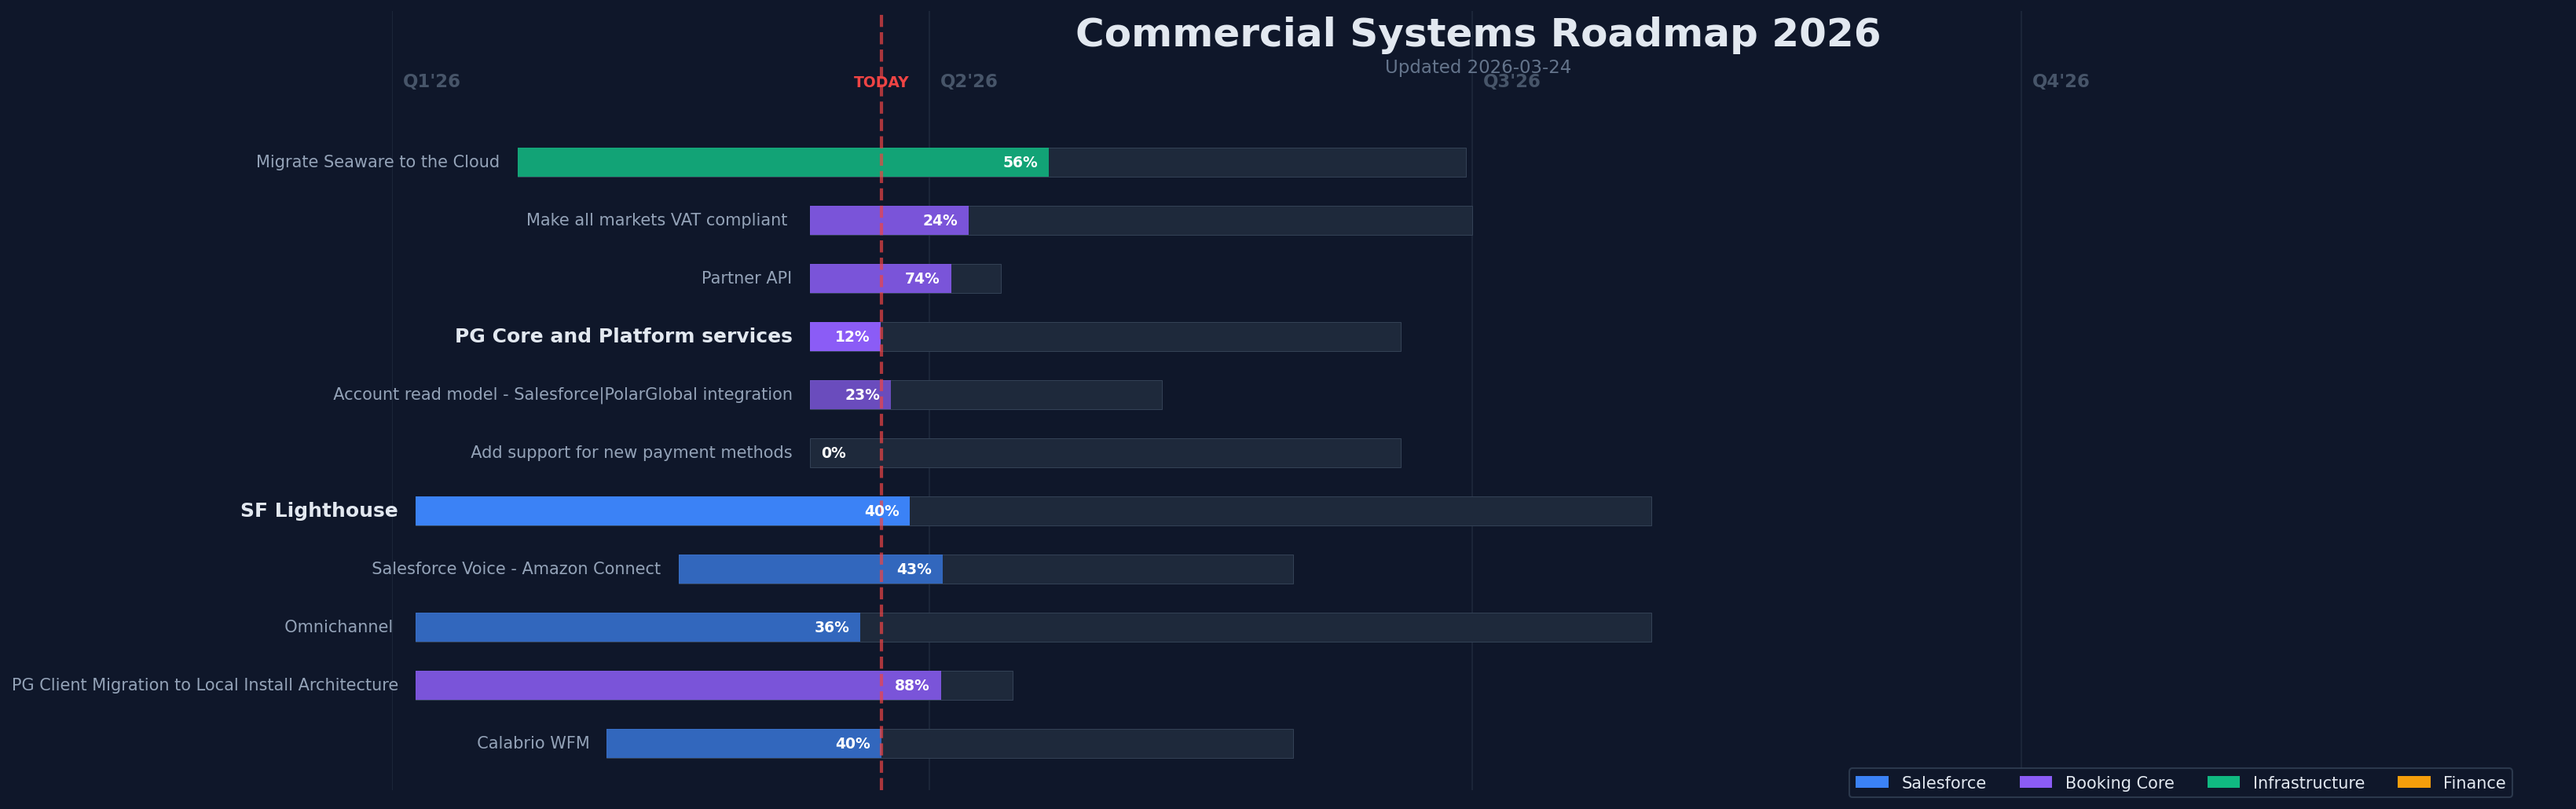
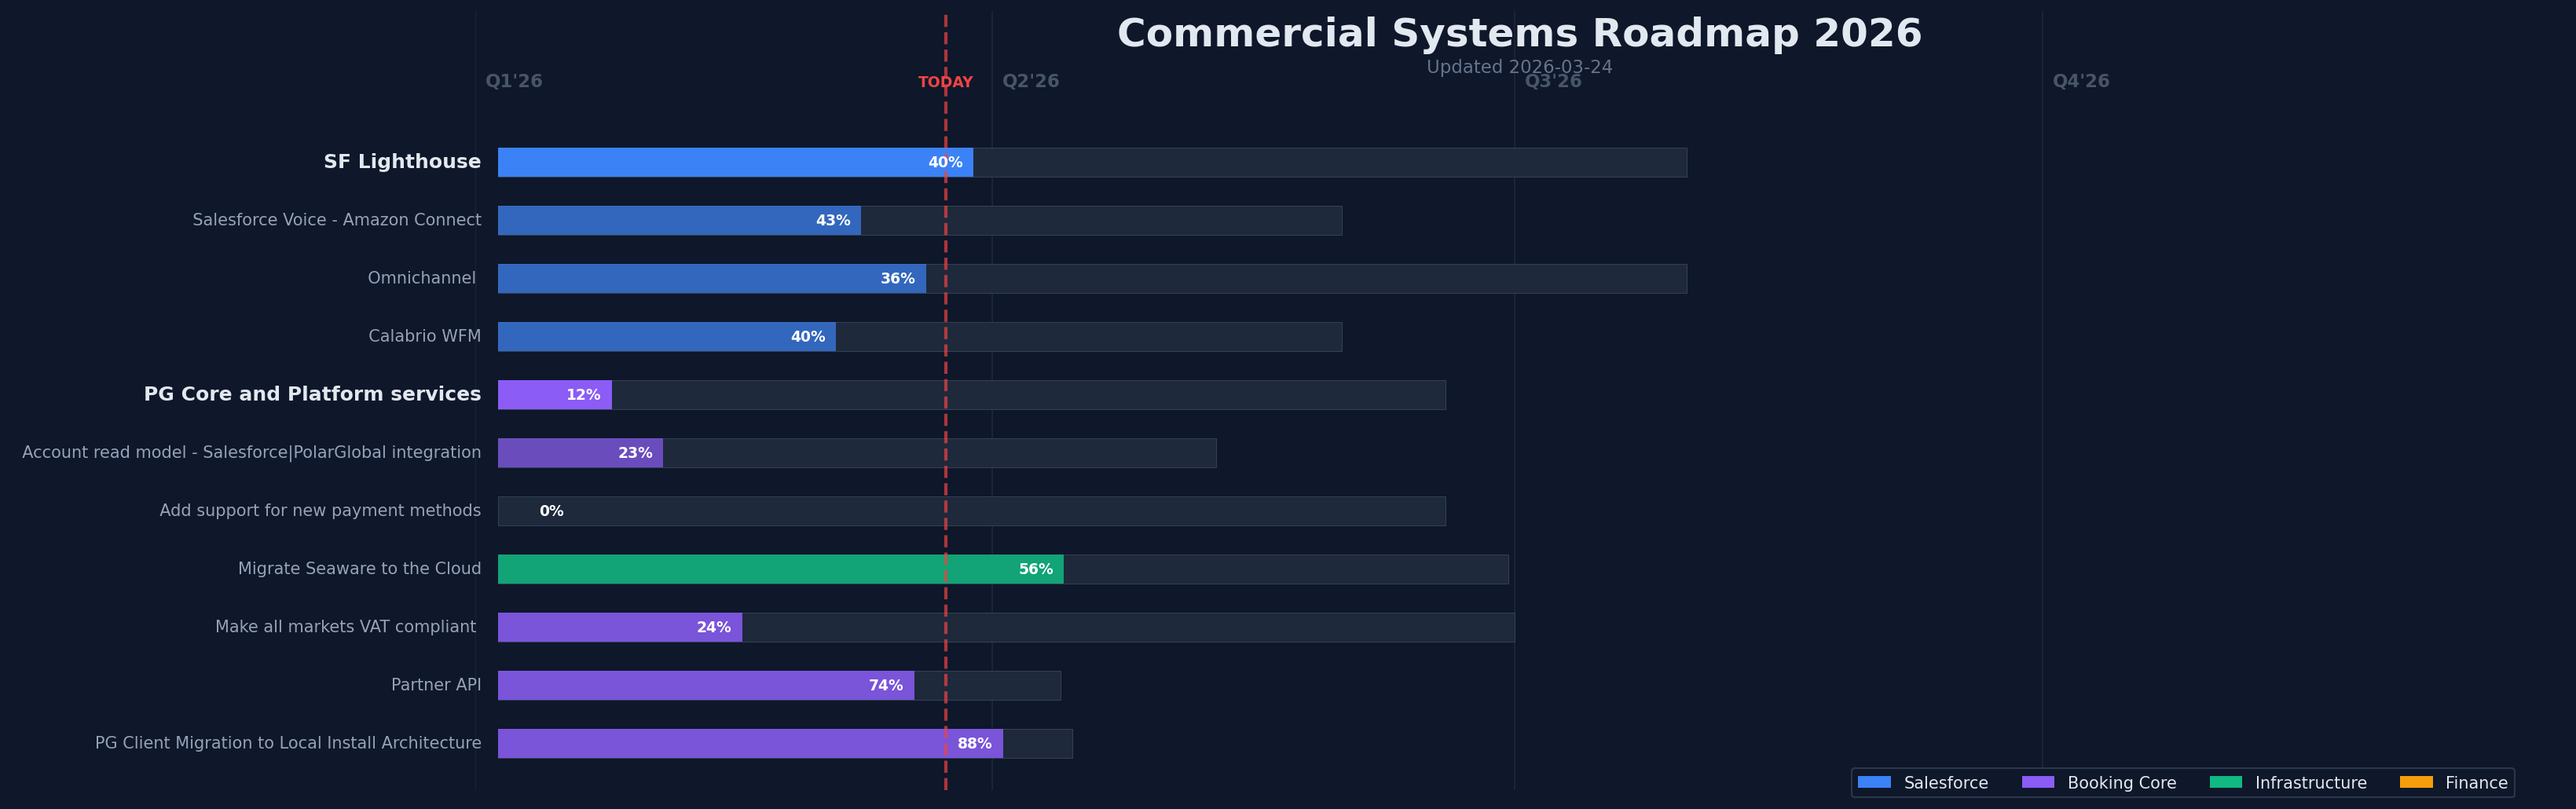
Auto-sync 2026-03-24

diff --git a/index.html b/index.html
@@ -53,19 +53,23 @@
 </div>
 <script>
 const DATA = [
-  { name: "Migrate Seaware to the Cloud", start: "2026-01-22", end: "2026-06-30", pct: 56, cat: "infra", jira: "https://hurtigruten.atlassian.net/browse/INFRA-2468", status: "20/39 done, 4 in progress, 15 to do. Weighted: 56%" },
-  { name: "sep" },
-  { name: "Make all markets VAT compliant ", start: "2026-03-12", end: "2026-07-01", pct: 24, cat: "core", jira: "https://hurtigruten.atlassian.net/browse/PC-3888", status: "2/15 done, 2 in progress, 10 to do, 1 blocked. Weighted: 24%" },
-  { name: "Partner API", start: "2026-03-12", end: "2026-04-13", pct: 74, cat: "core", jira: "https://hurtigruten.atlassian.net/browse/AV-2324", status: "4/8 done, 3 in progress, 1 to do. Weighted: 74%" },
-  { name: "PG Core and Platform services", start: "2026-03-12", end: "2026-06-19", pct: 12, cat: "core", parent: true, jira: "https://hurtigruten.atlassian.net/jira/software/projects/SQSF/boards/407", status: "2 workstreams, avg 12%" },
-  { name: "Account read model - Salesforce|PolarGlobal integration", start: "2026-03-12", end: "2026-05-10", pct: 23, cat: "core", child: true, jira: "https://hurtigruten.atlassian.net/browse/AV-2325", status: "0/4 done, 1 in progress, 3 to do. Weighted: 23%" },
-  { name: "Add support for new payment methods", start: "2026-03-12", end: "2026-06-19", pct: 0, cat: "core", child: true, jira: "https://hurtigruten.atlassian.net/browse/AV-2328", status: "0/2 done, 0 in progress, 2 to do. Weighted: 0%" },
   { name: "SF Lighthouse", start: "2026-01-05", end: "2026-07-31", pct: 40, cat: "sf", parent: true, jira: "https://hurtigruten.atlassian.net/jira/software/projects/SQSF/boards/407", status: "3 workstreams, avg 40%" },
-  { name: "Salesforce Voice - Amazon Connect", start: "2026-02-18", end: "2026-06-01", pct: 43, cat: "sf", child: true, jira: "https://hurtigruten.atlassian.net/browse/SQSF-6000", status: "10/32 done, 7 in progress, 15 to do. Weighted: 43%" },
+  { name: "Salesforce Voice - Amazon Connect", start: "2026-01-05", end: "2026-06-01", pct: 43, cat: "sf", child: true, jira: "https://hurtigruten.atlassian.net/browse/SQSF-6000", status: "10/32 done, 7 in progress, 15 to do. Weighted: 43%" },
   { name: "Omnichannel ", start: "2026-01-05", end: "2026-07-31", pct: 36, cat: "sf", child: true, jira: "https://hurtigruten.atlassian.net/browse/SQSF-5305", status: "5/41 done, 18 in progress, 18 to do. Weighted: 36%" },
+  { name: "Calabrio WFM", start: "2026-01-05", end: "2026-06-01", pct: 40, cat: "sf", child: true, jira: "https://hurtigruten.atlassian.net/browse/SQSF-5951", status: "2/5 done, 0 in progress, 3 to do. Weighted: 40%" },
   { name: "sep" },
+  { name: "sep", start: "", end: "", pct: 0, cat: "", jira: "", status: "" },
+  { name: "PG Core and Platform services", start: "2026-01-05", end: "2026-06-19", pct: 12, cat: "core", parent: true, jira: "https://hurtigruten.atlassian.net/jira/software/projects/SQSF/boards/407", status: "2 workstreams, avg 12%" },
+  { name: "Account read model - Salesforce|PolarGlobal integration", start: "2026-01-05", end: "2026-05-10", pct: 23, cat: "core", child: true, jira: "https://hurtigruten.atlassian.net/browse/AV-2325", status: "0/4 done, 1 in progress, 3 to do. Weighted: 23%" },
+  { name: "Add support for new payment methods", start: "2026-01-05", end: "2026-06-19", pct: 0, cat: "core", child: true, jira: "https://hurtigruten.atlassian.net/browse/AV-2328", status: "0/2 done, 0 in progress, 2 to do. Weighted: 0%" },
+  { name: "sep" },
+  { name: "sep", start: "", end: "", pct: 0, cat: "", jira: "", status: "" },
+  { name: "Migrate Seaware to the Cloud", start: "2026-01-05", end: "2026-06-30", pct: 56, cat: "infra", jira: "https://hurtigruten.atlassian.net/browse/INFRA-2468", status: "20/39 done, 4 in progress, 15 to do. Weighted: 56%" },
+  { name: "sep" },
+  { name: "sep", start: "", end: "", pct: 0, cat: "", jira: "", status: "" },
+  { name: "Make all markets VAT compliant ", start: "2026-01-05", end: "2026-07-01", pct: 24, cat: "core", jira: "https://hurtigruten.atlassian.net/browse/PC-3888", status: "2/15 done, 2 in progress, 10 to do, 1 blocked. Weighted: 24%" },
+  { name: "Partner API", start: "2026-01-05", end: "2026-04-13", pct: 74, cat: "core", jira: "https://hurtigruten.atlassian.net/browse/AV-2324", status: "4/8 done, 3 in progress, 1 to do. Weighted: 74%" },
   { name: "PG Client Migration to Local Install Architecture", start: "2026-01-05", end: "2026-04-15", pct: 88, cat: "core", jira: "https://hurtigruten.atlassian.net/browse/PC-3731", status: "14/17 done, 2 in progress, 1 to do. Weighted: 88%" },
-  { name: "Calabrio WFM", start: "2026-02-06", end: "2026-06-01", pct: 40, cat: "sf", child: true, jira: "https://hurtigruten.atlassian.net/browse/SQSF-5951", status: "2/5 done, 0 in progress, 3 to do. Weighted: 40%" },
 ];
 const C={sf:"#3B82F6",core:"#8B5CF6",infra:"#10B981",fin:"#F59E0B"};
 const RS=new Date("2026-01-01"),RE=new Date("2026-12-31"),TM=RE-RS;
